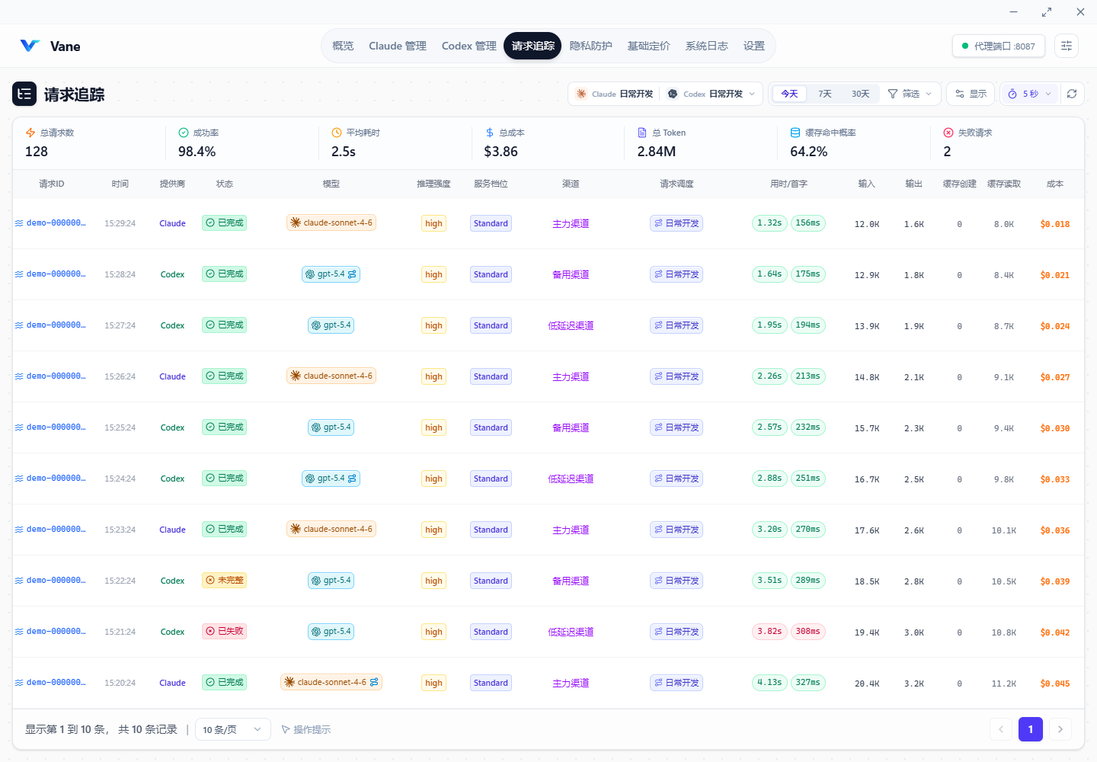
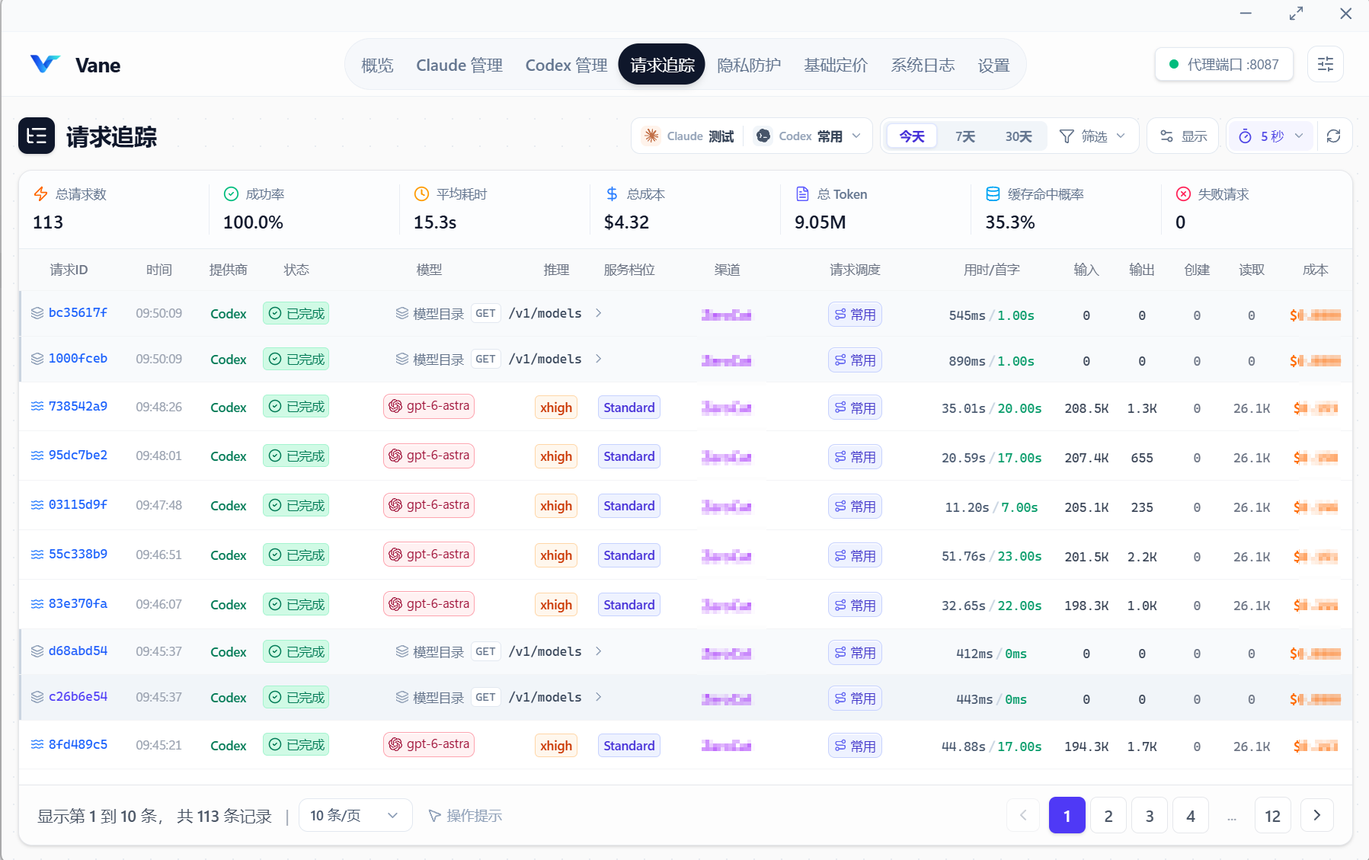
docs(readme): 精简项目说明并更新界面截图
文档整理
- 精简项目介绍与核心功能，按下载上手、界面展示、配置数据及源码开发重新组织内容。
- 删除冗长的实现规则、历史迁移细节与发布流程，保留必要开发命令、许可和鸣谢。

界面截图
- 纳入当前请求追踪与系统设置截图，将 README 图片引用改为仓库内相对路径。
- 将设置截图标题更新为系统设置，保留其他图片与已有文档调整。

验证
- README 本地链接、图片文件、版本徽章与代码块检查通过。
- git diff --cached --check 通过，三个暂存文件与操作前工作区内容哈希一致。
- 本次仅调整文档与图片，未重跑前后端构建和功能测试。

diff --git a/README.md b/README.md
@@ -1,14 +1,12 @@
 # Vane
 
-> Local AI Gateway for Agents — routing, failover, and request observability.
-
 <p align="center">
   <img src="assets/vane-app.png" width="128" height="128" alt="Vane">
 </p>
 
 <p align="center">
-  <strong>面向 AI 与 Agents 的本地请求网关与观测控制台</strong><br>
-  多端点路由 · 请求分流与故障转移 · 请求追踪 · Token 与成本统计
+  <strong>Claude 与 Codex 的本地代理与请求管理工具</strong><br>
+  多端点管理 · 自动故障转移 · 请求追踪 · 用量与费用统计
 </p>
 
 <p align="center">
@@ -19,98 +17,83 @@
   <img src="https://img.shields.io/badge/React-19-61DAFB.svg" alt="React">
 </p>
 
-## 概述
+Vane 是一个本地桌面应用，集中管理 Claude、Codex 的 API 渠道、订阅账号与上游端点，自动处理请求路由和故障转移，并记录请求、Token 用量与费用。
 
-Vane 是基于 Wails v3、Go 和 React 构建的桌面应用，为 Claude、Codex 等 AI 工具提供本地代理入口。通过统一管理渠道、凭证分组和端点，处理请求路由、流量分配、健康检查与故障转移，并记录请求链路、Token 用量和费用。
+## 下载与上手
 
-转发以保留客户端请求语义为原则：保留会话与客户端身份头，只替换选定接入所需的认证和目标地址；正文仅按显式模型映射及隐私规则处理。签名、加密内容和历史响应 ID 原样发送，本地记录只作为路由偏好，不因未知、过期或不同来源的历史状态拒绝续聊。修改方案后，下一个请求按最新方案重新决策；地址和凭证未变的端点重载保留运行时标识。代理不自动跟随上游重定向重放业务请求，需要将端点配置为实际 API 地址。启用意图识别会额外发送分类请求，健康探测和故障转移也可能产生额外网络请求。
+从 [Releases](https://github.com/wsyangzy/Vane/releases) 下载 `Vane-windows-amd64.zip`，解压后运行 `Vane.exe`。Windows 需要 Microsoft Edge WebView2 Runtime；macOS、Linux 可从源码构建。
 
-Vane 延续 AI Relay Forwarder / Claude Request Forwarder 的开发历史，以新品牌从 **1.0.0** 开始发布。原有 Git 提交历史保留，旧项目标签不迁入新仓库。
+1. **添加渠道**：在 Claude 或 Codex 管理页填写 API 凭证，或登录、导入订阅账号，再配置上游端点。
+2. **配置调度**：选择要使用的渠道和凭证分组，保存调度方案并设为默认。
+3. **接入客户端**：打开「客户端配置」，预览并应用本地代理配置；Codex 应用配置后需重启。
+4. **查看请求**：在请求追踪和用量概览中检查请求结果与费用。
 
-自动健康探测仅覆盖各提供商当前默认调度方案的启用成员；未参与的渠道、分组和无可用凭证的资源显示“未开启”，不发送后台探测。没有启用的默认方案时不进行自动探测。设置中的“主动健康检查”为 Claude 与 Codex 共用的总开关，关闭后停止发起自动探测，端点显示“未开启”并隐藏旧延迟；手动检测和真实请求反馈仍可使用。切换方案或修改成员后按新范围执行；订阅端点始终通过真实请求验证。手动“立即检测”只执行一次，不开启自动检测；方案内“跳过健康检查”仍保留延迟测速，仅跳过健康判定。
-
-「设置 → 调度保护」统一配置 Claude / Codex 的总尝试次数、调度等待时限、恢复等待、首次冷却时间、连续失败递增倍数与最长冷却时间，以及所有规则共用的一个默认回退开关。模型 / 条件路由、模型映射、非流改道和意图路由选择「跟随全局」时采用该配置，规则内明确的允许或禁止优先；已有方案保留自己的预算上限，与全局限制取较小值，新建方案从当前全局预算初始化。设置保存后生效；新的冷却参数用于后续失败，已进入冷却的资源保留原到期时间，正在处理的请求保留已采用的规则决策。上游有效的 `Retry-After` 优先于本地冷却时间，调度预算耗尽后停止等待与新尝试，不中断已开始的正常响应。
+代理地址和端口以应用中的设置为准。客户端配置支持备份与恢复，上游地址和凭证由 Vane 管理。
 
 ## 主要功能
 
-- **多提供商接入**：Claude 与 Codex 分别管理，支持多渠道、凭证分组、多个上游端点。
-- **请求路由与故障转移**：端点优先级、健康检查、重试预算、渠道级模型路由与逐次执行记录。
-- **流式与非流式响应**：保留客户端请求语义；流式与非流式错误按各自协议处理。
-- **请求追踪**：统一查看生命周期、调度决策、端点尝试、耗时、上游状态及错误；详情中的「高级诊断」可展开候选身份、状态版本与完整事件。Claude / Codex 管理中的「查看调度请求」会自动按提供商筛选，调度记录继续用于本地诊断和方案统计。
-- **用量与费用**：统计 Token、缓存命中及成本；区分 provider 原始用量与可计费用量，按凭证分组倍率核算。
-- **隐私防护**：统一管理密钥、个人信息、完整私钥和业务文本规则，顶部模式统一控制所有渠道；规则可设置额外放行，并在全局回复还原开启时选择是否还原，运行设置保留回复还原总开关、扫描上限与异常处理策略。
-- **本地存储**：SQLite 保存配置与请求历史，支持归档和存储管理。
-- **可视化管理**：在应用内管理客户端接入、渠道、凭证、端点、定价和运行设置。
-
-请求列表中的「请求调度」显示本次采用的方案，多次尝试和未发送会单独标记。单击可预览决策与调用路径，再点击「查看完整调度」进入请求详情的调度链路页签；普通双击请求行仍从概览打开。
+- **渠道管理**：Claude、Codex 分别配置，支持 API 凭证、订阅账号与多个上游端点。
+- **路由与容错**：按调度方案和规则分配请求，支持健康检查、失败重试和自动切换端点。
+- **请求追踪**：查看请求状态、耗时、错误，以及每次路由和重试的过程。
+- **用量与费用**：汇总本地会话和代理请求，查看 Token、缓存用量、模型分布和费用，支持自定义定价与倍率。
+- **隐私防护**：支持敏感信息检测、发送前脱敏与回复还原，默认仅检测。
+- **本地管理**：配置、日志和请求历史保存在本机，支持历史归档、缓存清理与存储管理。
 
 ## 应用界面
 
-以下截图来自 v1.0.1 的实际前端界面，使用示例渠道、请求和用量数据，不包含真实凭证或用户会话。
-
 ### 用量概览
 
-按本地会话或代理请求查看 Token、费用、趋势与模型分布，支持按提供商、周期和项目筛选。
+查看本地会话与代理请求的 Token、费用和使用趋势。
 
 ![Vane v1.0.1 用量概览](docs/images/overview.png)
 
 ### 渠道与调度方案
 
-Claude 与 Codex 分别管理渠道资源，通过调度方案组织渠道、凭证分组、路由规则和候选预览。
+分别管理 Claude、Codex 渠道，用调度方案选择请求使用的资源与路由规则。
 
 ![Vane v1.0.1 渠道与调度方案](docs/images/endpoints.png)
 
 ### 请求追踪
 
-查看真实发送的渠道与端点、请求结果、Token 和费用；通过请求调度入口展开模型路由、重试与完整调用链。
+查看每次请求的结果、耗时、用量，以及路由和重试过程。
 
-![](D:\Software\Typora\images\README\image-20261113095429998.png)
+![](docs/images/requests.png)
 
-### 调度保护设置
+### 系统设置
 
-统一配置 Claude 与 Codex 的请求预算、恢复等待、临时故障冷却及规则默认回退，单条规则可以明确覆盖回退设置。
+统一设置重试次数、等待时限和故障冷却。
 
-![image-20261113094654037](D:\Software\Typora\images\README\image-20261113094654037.png)
+![](docs/images/settings.png)
 
-## 功能与行为说明
+## 配置与数据
 
-隐私防护默认仅检测，密钥预设需要在「导入预设」中启用。顶部「关闭」不扫描；「仅检测」记录命中，原文放行；「脱敏」统一替换敏感值，额外放行规则除外。运行设置中的「回复还原」独立控制回复文本和工具参数中的编码还原，不影响发送前脱敏。扫描出错或路径未覆盖时原文放行，可分别选择是否写入防护记录；还原映射超限时始终记录并原文放行。超过扫描上限时可选择扫描前缀、其余原样放行，或跳过整次扫描并原文放行；默认扫描前缀。隐私模块不主动拒绝请求。旧警告和拦截规则迁移为普通规则，跟随顶部模式。全部 Claude / Codex 渠道统一使用这一入口，旧渠道的可信／中转级别不再参与判断。同一请求的重试与故障转移复用同一份处理结果。
+渠道、客户端接入、模型定价和运行设置均可在应用内管理。默认数据目录：
 
-「防护规则」定义匹配内容、启停和优先级。脱敏模式下，规则编辑提供「额外放行」开关；未额外放行且全局回复还原开启时，显示「回复还原」开关，选择本规则是否还原回复。全局还原关闭时隐藏规则还原开关，原有选择会保留，重新开启后恢复。列表显示「回复还原」或「回复不还原」。额外放行规则豁免完整命中值，不参与检测、脱敏或回复还原，指定文本忽略大小写；仅检测模式隐藏规则处理选项。全局总开关不会覆盖单条规则关闭还原的选择，也不会让额外放行规则参与还原。关闭单条规则的还原不会影响发送前脱敏，也不会改变该规则在同一会话中的已有编码。不同规则的编码映射独立，避免可还原规则把另一条仅脱敏规则的值还原出来。运行设置支持修改单次请求累计可扫描文本的大小上限，以及出错、未覆盖路径和超限时的处理；不记防护记录仅影响所选异常，请求追踪仍照常记录。已有类别开关、类型动作、脱敏词和例外名单会合并为规则；旧占位符／假名替换迁移为稳定编码，保留匹配内容和启停，旧警告与拦截动作统一跟随顶部模式。
+| 平台 | 数据目录 |
+| --- | --- |
+| Windows | `%APPDATA%\Vane` |
+| macOS | `~/Library/Application Support/Vane` |
+| Linux | `$XDG_DATA_HOME/Vane`，未设置时为 `~/.local/share/Vane` |
 
-编码映射仅存本机内存、闲置一小时过期；没有明确会话标识时仅用于本次请求，重启后不会恢复旧映射。仅脱敏规则仍使用稳定编码，但其编码不会在回复中还原。映射容量不足时记录并原文放行，避免发送无法区分实体的占位符。签名、加密内容、工具定义与二进制载荷不改写。「防护记录」展示扫描、实际替换、截断及还原摘要，并区分总开关或规则关闭还原的情况，不保存命中原文、请求正文或映射，最多保留 30 天、5,000 条；旧版本的拒发摘要仍可查看。
+主数据库默认位于 `data/usage.db`，日志位于 `logs/`。可在「设置 → 数据保留」中查看实际路径、调整保留天数与历史归档位置。
 
-Codex 组合计费将「分组基础倍率」与模型、服务档位和上下文规则分开配置。选择组合规则即自动适配档位，无需另选计费档位依据：显式请求的 Standard、Flex、Batch、Fast（含 priority 别名）或 Ultrafast 决定价格及规则匹配，请求为 Auto、未指定或未识别时采用响应档位。响应 default 不会覆盖明确请求的 Fast；档位仍未确定时保留原始记录，并使用 Standard 价格兜底。传统倍率固定使用 Standard 定价，只应用总倍率、分项倍率及已启用的 Long context 和模型倍率，不再选择计费档位依据；需要按服务档位计费时使用组合规则。每次只命中一条规则，模型、档位及上下文规则始终按 `单价 × 分组分项倍率 × 规则分项倍率 × 分组总倍率 × 规则总倍率` 计算；固定单价规则也叠加分组基础倍率，不提供独立计费开关。已有例外规则即使保存了旧的独立计费标记，也统一按叠加执行。编辑与分组详情只展示分组基础倍率和附加规则，不再展示默认兜底卡片；未配置附加规则时也可保存组合模式。旧默认规则保留内部兼容，载入时将与分组基础倍率完全相同的旧倍率合并为一次基础倍率，修改基础倍率不会重复相乘；不同的旧倍率或固定价保持原值。未命中任何规则时仍应用分组基础倍率。组合规则不再额外应用传统模型与 Long context 倍率；分组基础倍率中的 Long context 总开关决定是否使用长上下文价格与规则，关闭后始终按普通上下文计费。分项倍率编辑器按缓存写入计费选项展示 30m 或 30m / 12h 单价，两档共用缓存写入倍率；传统倍率的定价对照仅显示 Standard。请求绑定端点时保存自动匹配策略、分组基础倍率和规则，后续修改配置不影响这次请求；归档失败恢复时保留这些计费配置和缓存扣除口径。实时详情、归档计费与余额扣减使用相同的档位和价格选择逻辑。请求追踪列表默认显示服务档位列，与详情使用同一份计费快照；没有档位记录时显示破折号。请求详情使用当时落库的单价、倍率和策略快照，修改配置不会重算历史账单。
-
-用量概览中，点击活动日会按该日筛选汇总、排名和明细，同时保留上方周期的趋势背景，不自动切换到全部历史。加载期间保留同一来源和提供商的上次结果，并标明正在更新；首次读取显示骨架屏。查询结果仅缓存在内存，最多保留 24 组、默认有效期 30 秒，较短的自动刷新间隔会缩短有效期；手动刷新重新读取当前来源。
-
-会话明细以具体主题为标题，项目、模型和最近活跃时间作为辅助信息，右侧展示 Token 与估算费用。Claude 优先采用手动命名、AI 标题或会话摘要，Codex 优先读取原生会话名称索引；缺失时从首条有效用户消息提取最多 160 字符的脱敏短标题，跳过环境指令和工具内容，不额外调用模型。点击会话或「按项目查看」可打开项目分组明细，按完整目录区分同名项目；展开项目后独立分页读取当前筛选范围内的会话，不受主列表当前页限制。
-
-原生会话文件首次采用最多 4 路并发解析，用量元数据索引保存在 Vane 数据目录的 `cache/local-usage-v1.gob`，重启后复用未变化文件的索引；文件变化、索引损坏或版本不兼容时自动重新解析。本次标题索引升级会触发一次重建。索引仅保留用量元数据与脱敏短标题，不保存完整消息正文、工具参数或凭证。两类缓存均受「启用缓存」控制，并在「缓存运行状态」中展示命中、占用和清理时间；清理本地索引也会使依赖它的概览查询缓存失效，原始会话不受影响。
-
-## 下载与运行
-
-当前版本为 **v1.0.1**，可从 [v1.0.1 发布页](https://github.com/wsyangzy/Vane/releases/tag/v1.0.1) 或 [全部 Releases](https://github.com/wsyangzy/Vane/releases) 下载。
-
-当前发布工作流打包 Windows x64，资产名称为 `Vane-windows-amd64.zip`。macOS、Linux 提供源码构建配置。
-
-Windows 运行需要 Microsoft Edge WebView2 Runtime。解压后运行 `Vane.exe`，在应用中配置 Claude 或 Codex 的渠道、凭证和端点，再通过客户端接入入口预览并应用本地代理设置。代理地址与端口以应用实际设置为准。
+迁移数据前请完全退出应用并备份完整数据目录。Vane 不会自动导入或合并旧品牌的数据。
 
 ## 从源码开发
 
-需要 Go **1.27.3**、Node.js **20.19+ 或 22.12+**及 npm。Wails 使用项目固定的 `v3.0.0-alpha.96`；Windows 构建还需要可用的 C 编译器与 `goversioninfo`。
+技术栈：Go、Wails v3、SQLite、React 19、Vite 7、Tailwind CSS 4。
 
-以下示例使用 PowerShell：
+需要 Go **1.27.3**、Node.js **20.19+ 或 22.12+** 和 npm。以下为 Windows / PowerShell 示例，构建还需要可用的 C 编译器。
 
 ```powershell
 git clone https://github.com/wsyangzy/Vane.git
 cd Vane
 
-# 安装项目使用的构建工具
+# 安装固定版本的构建工具
 go install github.com/wailsapp/wails/v3/cmd/wails3@v3.0.0-alpha.96
 go install github.com/josephspurrier/goversioninfo/cmd/goversioninfo@v1.5.0
 
-# 安装前端依赖并生成首次构建资源
+# 安装前端依赖，生成首次启动所需资源
 Push-Location frontend
 npm ci
 npm run build
@@ -120,188 +103,47 @@ Pop-Location
 wails3 task dev
 ```
 
-Go module 为 `github.com/wsyangzy/Vane`。桌面入口通过 `desktop` build tag 编译，优先使用项目 Taskfile 构建。
+运行 `wails3 task build` 构建生产版本，Windows 产物为 `build/bin/Vane.exe`。
 
-```powershell
-# 完整生产构建：前端、平台资源与桌面程序
-wails3 task build
+主要代码位置：
 
-# 仅构建桌面开发程序
-wails3 task dev:build
-```
-
-Windows 输出位于 `build/bin/Vane.exe`，开发版本为 `build/bin/Vane-dev.exe`。
-
-## 配置与数据目录
-
-运行设置由代码默认值初始化，并保存在应用自己的 SQLite 数据库中。渠道、凭证、端点、模型定价、代理、日志和故障转移等配置通过应用界面管理。
-
-「生成配置预览」在独立弹窗中展示配置，目标文件、核对选项和应用按钮固定显示，长配置只在内容区滚动。关闭预览后回到客户端配置，保留已选方案、模型目录方式与文件路径。
-
-Codex 管理页的「客户端配置」支持两种模型目录来源。选择「本地模型文件」时，可选择已有 JSON 或填写绝对路径、`~/.codex/codex-models.json` 等用户路径；预览和应用均校验 Codex 原生目录格式，写入解析后的绝对路径，并移除远程目录地址、关闭远程模型发现。已有 `models.json` 也可直接选择，Vane 不创建或修改模型文件。新客户端配置默认选择本地方式。选择「远程模型目录」时，目录地址自动使用 Vane 接入地址下的 `/models`，开启远程模型发现，并清除根配置及当前 profile 的本地目录覆盖；其他 profile 保留。
-
-客户端配置预览包含模型、审查模型、搜索和功能设置。已有值保留，缺项按模板补全：模型与审查模型默认 `gpt-6.1-sol`（已有模型时审查模型沿用该模型）、实时搜索、禁用响应存储、允许网络访问、Windows WSL 设置确认，以及 `image_generation` / `goals`。接入地址与认证使用 Vane 本地入口和代理令牌，API 渠道的上游地址与密钥仍由 Vane 管理。核对预览后点击「备份并应用配置」，原配置加密备份，支持恢复；重启 Codex 后生效。本地目录只影响模型目录获取，不改变 Vane 的健康检查和 Claude token 计数设置。目录格式和启动加载行为参见 [OpenAI 官方模型目录说明](https://learn.chatgpt.com/docs/enterprise/roll-out-a-gateway#use-a-model-catalog-for-custom-names)。
-
-设置页的“调度保护”统一控制 Claude 与 Codex。“端点冷却时等待重试”默认开启，所有候选暂时不可用时，在本次请求剩余的调度时限和尝试次数内等待恢复；关闭后直接返回失败。保存后对新请求生效，已有方案的旧等待开关不再决定运行行为。方案自身的时间和次数限制与全局上限取较小值；客户端取消会结束等待，已经开始的正常响应不受调度时限中断。
-
-| 平台 | 默认应用数据目录 |
+| 目录 | 用途 |
 | --- | --- |
-| Windows | `%APPDATA%\Vane` |
-| macOS | `~/Library/Application Support/Vane` |
-| Linux | `$XDG_DATA_HOME/Vane`，未设置时为 `~/.local/share/Vane` |
+| `cmd/vane/` | 桌面入口 |
+| `internal/app/`、`internal/desktop/` | 应用编排与桌面服务 |
+| `internal/providers/` | Claude、Codex 代理与业务逻辑 |
+| `internal/tracking/`、`pricing/`、`routing/`、`privacy/` | 请求追踪、定价、路由与隐私防护，均位于 `internal/` 下 |
+| `frontend/src/` | 页面、共享组件与 Wails 调用 |
+| `build/`、`scripts/` | 构建、打包与发布工具 |
 
-默认数据库位于数据目录下的 `data/usage.db`，日志位于 `logs/`。用户显式设置的自定义数据库路径继续按应用配置使用。
-
-“日志设置”可配置文件日志开关、单文件轮转大小、每类日志的归档保留数量及归档压缩，保存后即时生效，重启后保留。关闭文件日志仍可查看运行期间的实时日志；归档数量限制在后续轮转时清理超额文件，不会在保存设置时立即删除历史归档。
-
-### Codex 搜索
-
-`POST /v1/alpha/search` 由 Codex 处理，在「Codex 管理 → 调度方案 → 编辑方案 → Codex 搜索」中点击线路卡片选择，随方案保存，对新请求生效。新方案默认自动选择：先尝试方案内的原生搜索，失败或不可用时，在已配置独立搜索服务且允许实时联网的情况下回退。未配置服务时保留原生结果或真实失败信息。也可使用显式入口固定线路：
-
-| 入口 | 处理方式 |
-| --- | --- |
-| `/v1/alpha/search/native` | 按当前 Codex 方案选择支持原生搜索的端点，保留模型、搜索命令、设置和加密上下文；官方订阅凭证在 Codex 渠道中接入。 |
-| `/v1/alpha/search/service` | 使用当前方案的搜索服务协议、地址与独立 API Key，不依赖模型渠道或官方订阅。 |
-
-原生搜索使用独立协议调度，不执行文本模型映射、意图识别或非流改道。适配支持 Tavily、Brave Search、Exa 和 SearXNG 协议，可修改完整接口地址接入兼容服务。Tavily 是预填协议，用户可切换；SearXNG 需填写启用 JSON 输出的实例地址，凭证可选。Tavily、Brave、SearXNG 支持网页和图片查询，Exa 适配提供网页查询与正文片段。域名筛选会在返回结果时再次检查；Brave 图片查询不支持日期筛选，SearXNG 时效支持 1、30/31、365/366 天，其他时段返回能力说明。`open`、`click`、`find` 等页面操作仍需原生线路。适配线路不提供官方缓存索引，客户端需使用 `web_search = "live"`；明确禁止实时联网的请求不会转到外部搜索服务。
-
-搜索服务只接收查询与筛选条件，不接收模型凭证、对话正文或加密上下文；查询和原生请求中的对话文本仍经过现有隐私策略。适配失败以搜索工具协议返回说明，让客户端能够继续处理当前任务；请求记录保留失败状态及搜索服务实际返回的 HTTP 状态，没有上游响应的本地问题单独展示。
-
-搜索服务凭证与方案元数据分开保存，使用现有系统凭证加密能力，不进入调度快照。已有全局搜索设置迁入现有 Codex 方案后删除旧设置；切换服务协议时保留该方案其他协议的凭证，删除凭证需点击删除并保存。
-
-### 请求历史保存位置
-
-「设置 → 数据保留」同时提供保留天数和历史归档保存路径，并显示实际主数据库及归档位置。归档路径留空使用默认目录；自定义路径下按 `dev` / `release` 分别保存月度数据库。切换要求目标环境子目录为空，用 SQLite 一致性快照复制已有归档，成功后同时切换历史查询与后续归档；复制失败继续使用原目录，旧文件保留为人工回退副本。主数据库保存渠道、设置和近期请求，本设置调整月度历史归档位置；整库迁移仍需完整迁移流程。
-
-### 订阅账号登录与导入
-
-在 Claude 或 Codex 管理页打开「订阅管理 → 订阅账号」：
-
-- Codex 的「浏览器登录」由 Vane 生成独立的 OAuth/PKCE 授权会话并打开官方页面，无需安装 Codex CLI。官方回调地址为 `http://localhost:1455/auth/callback`；端口被占用或保留时，可将浏览器最后停留的完整回调 URL 粘贴到登录面板完成授权。
-- Codex 的「设备码登录」需要已安装官方 Codex CLI。面板显示官方验证地址及设备验证码。
-- Claude 登录需要已安装官方 Claude Code。Vane 在独立临时配置目录运行 `claude auth login --claudeai`，捕获并打开它的官方授权链接，支持自动回调、回调 URL 补交及 CLI 提供的完整授权码。
-- 登录面板支持复制链接、重新打开浏览器和取消登录。CLI 使用 Vane 的全局代理配置，SOCKS5 经本地临时 HTTP CONNECT 桥接；浏览器使用自身网络设置。取消或超时不会保存尚未完成的登录。
-- 「导入凭证」支持选择文件或粘贴单个账号 JSON，包括 Codex 的 ChatGPT `auth.json`、Claude Code 的 `.credentials.json` 和 CLIProxyAPI 的对应账号文件；需要完整的 access token 与 refresh token。Claude 文件缺少账号 UUID/邮箱时，需补充该凭证对应的邮箱，避免将轮换的 token 当成账号身份。
-- 导入只读取并加密保存显式提供的内容，不代表已在线验证可用性；访问凭证按需刷新。与原工具共用刷新凭证可能导致其中一方需要重新登录，建议使用独立登录。
-
-凭证使用当前 Windows 用户的 DPAPI 加密存储。登录和导入不会改写用户原有的 Codex/Claude 登录文件；临时登录目录和子进程在会话结束后清理。
-
-### 数据迁移
-
-Vane 仅使用上述数据目录，不自动识别、回退或合并其他品牌目录，也不会从 `usage-dev.db`、`usage-v2.db` 或程序运行目录导入数据。新目录首次启动时创建独立数据库。
-
-从 RelayScope 切换时，先完全退出两边应用（包括托盘），并备份已有 Vane 目录；将 RelayScope 应用数据目录的完整副本放入 Vane，其中数据库必须位于 `Vane/data/usage.db`。请保留 SQLite 辅助文件、月度归档、日志和追踪恢复文件；不要向正在运行的应用目录覆盖数据库，也不要将旧库与新库的 `-wal`、`-shm` 文件混用。数据库可使用 SQLite backup API 生成包含已提交 WAL 数据的一致副本，迁入前后检查完整性和关键表记录数。
-
-迁移完成后，Vane 直接使用自己的数据库，旧目录只作为备份。存在多份历史数据时，以当前使用的数据作为迁移来源，其余历史库独立保留，不自动合并或覆盖当前数据。
-
-图标源文件为 `assets/vane.png`。安装 Pillow 后运行 `python scripts/assets/generate-icon.py`，可重新生成桌面、托盘、Windows、macOS、Linux 与网页图标。
-
-## 项目结构
-
-```text
-Vane/
-├── cmd/
-│   ├── vane/                 # 桌面可执行程序入口
-│   └── subscription-probe/         # 独立订阅诊断工具
-├── internal/
-│   ├── app/                        # 依赖装配、应用生命周期与业务编排
-│   ├── buildinfo/                  # Version / Commit / BuildTime / BuildMode
-│   ├── config/                     # 配置类型、默认值与校验
-│   ├── desktop/
-│   │   ├── host/                   # Wails、窗口、托盘与桌面集成
-│   │   └── api/                    # 按功能拆分的 Wails 服务，复用 app DTO
-│   ├── providers/
-│   │   ├── claude/                 # Claude proxy / service / store / 客户端配置
-│   │   └── codex/                  # Codex proxy / service / store / 客户端配置
-│   ├── tracking/                   # 请求生命周期、用量、成本与归档
-│   ├── pricing/                    # 模型定价与持久化
-│   ├── routing/                    # 路由模型、规则与执行
-│   ├── settings/                   # 应用设置及其持久化
-│   ├── privacy/                    # 隐私检测与脱敏
-│   ├── subscriptions/              # 订阅账号能力
-│   └── platform/                   # 数据路径、日志、SQLite、监控等通用支持
-├── frontend/
-│   ├── assets.go                   # dist 资源的 Go embed 边界
-│   └── src/
-│       ├── app/                    # 应用入口、布局、全局状态与发布说明
-│       ├── features/               # 功能页面、专属组件、hooks 与工具
-│       ├── services/               # Wails 调用与显式数据映射
-│       ├── shared/                 # 通用 UI、hooks、工具与资源
-│       └── bindings/               # Wails v3 生成绑定
-├── assets/                         # Go 嵌入的应用图标与托盘图标
-├── build/                          # 平台资源、版本资源与 Wails 构建任务
-├── scripts/
-│   ├── build/                      # 本机构建与打包
-│   ├── release/                    # 版本同步与发布说明生成
-│   ├── assets/                     # 图标生成与 macOS 图标维护
-│   └── checks/                     # 验证入口及发布脚本测试
-├── tests/
-│   ├── integration/                # 跨模块代理、追踪与计费回归
-│   └── legacy/                     # 已退出当前运行链路的历史迁移检查
-└── docs/images/                    # README 等文档图片
-```
-
-桌面入口只负责启动宿主，`internal/app/` 装配共享依赖并编排运行状态，`internal/desktop/api/` 将功能服务暴露给 Wails。Provider 的代理、凭证、激活、客户端配置和计费规则分别放在对应 provider 下；通用设施不承担 provider 业务规则。单元测试与被测 Go 包放在一起，跨模块场景保留在 `tests/integration/`。
-
-前端按功能组织页面与局部组件，`services/` 是生成绑定与 UI 数据之间的显式映射边界。`bindings/` 由工具生成，修改后端签名或 DTO 后从仓库根目录重新生成，再检查映射、调用点与前端构建：
+### 验证
 
 ```powershell
-wails3 task common:generate:bindings
-```
-
-首次生成需要已存在 `frontend/dist/`，可先运行前端构建。完整命令由 `build/Taskfile.yml` 维护；不要手工修改生成绑定。`build/wails.json` 只保留旧 Wails v2 配置兼容资料，现行构建以根 `Taskfile.yml`、`build/config.yml` 与平台 Taskfile 为准。
-
-## 验证
-
-前端命令在 `frontend/` 下运行：
-
-```powershell
+# 前端
+Push-Location frontend
 npm run lint
 npm test
 npm run build
-```
+Pop-Location
 
-后端与发布脚本命令在仓库根目录运行。Go 测试前需要存在 `frontend/dist/index.html`：
-
-```powershell
+# 后端：需要先完成前端构建
 go test ./...
 go test -tags desktop -run '^$' ./...
-python -B -m unittest discover -s scripts/checks -p "test_*.py"
-git diff --check
 ```
 
-开发时可按任务范围选择相应 provider 与共享模块的定向测试。`AGENTS.md` 和 `CLAUDE.md` 为本地 Agent 约束文件，不纳入版本控制。
+更多测试入口见 [测试说明](tests/README.md)。后端 Wails 接口变更后，运行 `wails3 task common:generate:bindings` 更新绑定。
 
-## 发布与版本
+## 反馈与许可
 
-Vane 使用三段版本号，当前版本为 `1.0.1`；Windows 文件资源采用对应的四段数字版本 `1.0.1.0`。版本权威值位于 `internal/buildinfo/buildinfo.go` 的 `Version`；Wails、平台资源、构建默认值和 `frontend/src/app/release-notes.json` 应与之保持一致。链接器注入使用 `github.com/wsyangzy/Vane/internal/buildinfo.Version` 等完整变量路径。
+欢迎通过 [Issues](https://github.com/wsyangzy/Vane/issues) 或 Pull Request 提交反馈与改进。
 
-需要调整版本时，可在 Bash 环境运行 `bash scripts/release/release.sh <版本号> "发布说明"`，审核版本文件与发布说明后再单独提交。该脚本只更新文件；不自动提交、打标签或推送。
-
-GitHub Actions 分为持续检查与标签发布：
-
-| 工作流 | 触发条件 | 执行内容 |
-| --- | --- | --- |
-| [CI](.github/workflows/ci.yml) | 推送 `main`、Pull Request、手动检查，以及标签发布调用 | Go 格式与 vet、工作流语法、构建/发布脚本测试、前端 lint/测试/构建、Windows/macOS/Linux Go 测试及 desktop tag 编译检查 |
-| [Release](.github/workflows/release.yml) | 推送 `vMajor.Minor.Patch` 发布标签 | 校验版本和发布说明，运行完整 CI，成功后编译 Windows x64 发布程序、校验版本资源、打包并发布 GitHub Release |
-
-CI 对仅修改 Markdown 或 `docs/` 的 PR 保留检查名称，跳过前端和 Go 平台任务中的步骤。CI 使用只读仓库权限；PR 的新提交会取消同一 PR 的旧运行，每个任务均设置超时。普通提交、PR 与手动 CI 检查只产生测试所需的前端中间资源。
-
-发布流程只接受三段数字版本标签，例如 `v1.0.1`，不提供手动发布入口。标签必须与 `internal/buildinfo/buildinfo.go`、发布说明的当前版本及版本条目一致；完整 CI 通过后才编译发布程序。发布资产为 `Vane-windows-amd64.zip` 和 `checksums.txt`，只有最终发布任务拥有仓库写入权限。
-
-旧项目标签不随仓库迁移上传。旧历史中仅由标签引用的提交通过 `archive/legacy-history` 分支保留。
-
-## 贡献与许可
-
-欢迎通过 [Issues](https://github.com/wsyangzy/Vane/issues) 和 Pull Requests 提交反馈与改进。
-
-项目采用 [MIT License](LICENSE)。原项目作者和贡献者的版权声明继续保留。
+项目采用 [MIT License](LICENSE)，保留原项目作者和贡献者的版权声明。
 
 ## 鸣谢
 
-感谢原项目作者、贡献者和以下开源项目的工作与启发：
+感谢原项目作者、贡献者，以及以下项目的工作与启发：
 
-- [xiaozhaodong/cc-forwarder](https://github.com/xiaozhaodong/cc-forwarder)：使用 Go 实现的 Claude API 智能转发器，提供 Web 管理、请求追踪、分组管理与自动故障转移。
-- [yetone/magpie](https://github.com/yetone/magpie)：面向 AI 编程工具的桌面模型网关，将不同模型接入集中到统一入口。
+- [xiaozhaodong/cc-forwarder](https://github.com/xiaozhaodong/cc-forwarder)：Claude API 转发与管理。
+- [yetone/magpie](https://github.com/yetone/magpie)：AI 编程工具的桌面模型网关。
 - [xinhai-ai/endpoint_forwarder](https://github.com/xinhai-ai/endpoint_forwarder)：项目最初的灵感来源。
-- [Wails](https://wails.io)、[Go](https://go.dev)、[React](https://react.dev) 及相关开源依赖：支撑桌面宿主、代理运行时与应用界面。
+- [Wails](https://wails.io)、[Go](https://go.dev)、[React](https://react.dev) 及相关开源依赖。
